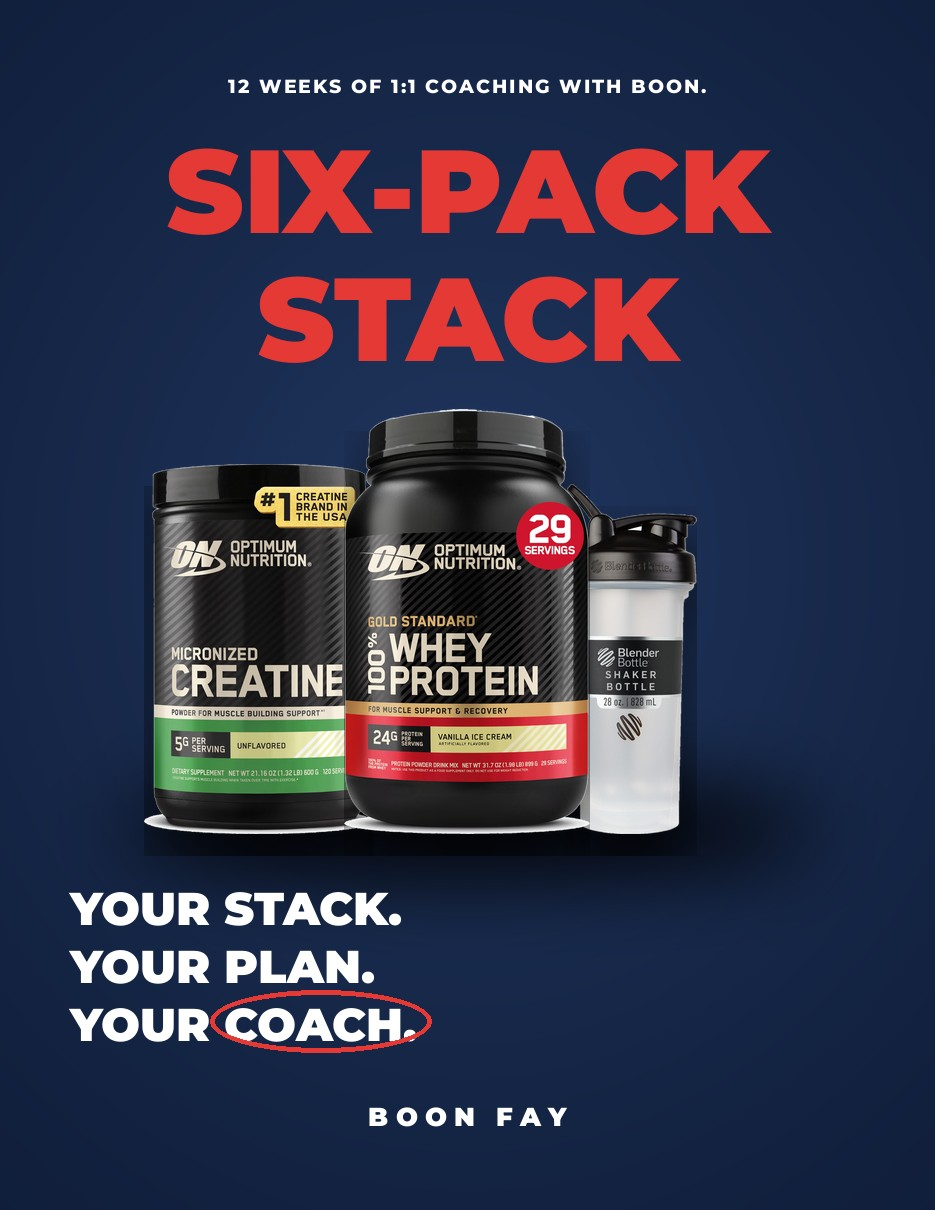
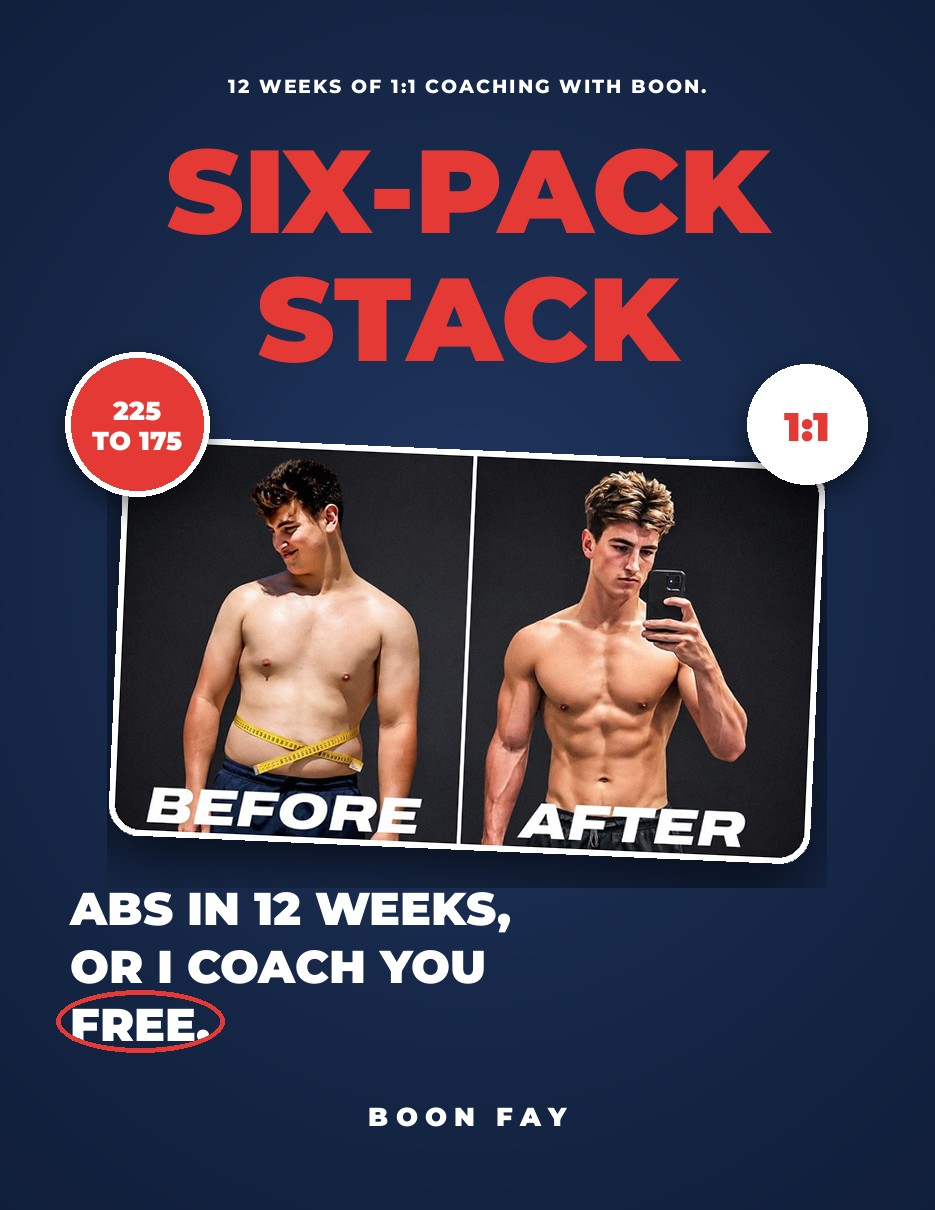
New covers: The Free Stack, coaching (real before/after), Stack Score; Stack Score added as a free card and linked from Stack Check
Claude-Session: https://claude.ai/code/session_01Bf86E4ucw6eJutAMhaLVMs

Changed region(s): [[0.062, 0.2752, 0.9305, 0.8868]]

diff --git a/app/welcome.tsx b/app/welcome.tsx
@@ -5,19 +5,21 @@ import { SafeAreaView } from 'react-native-safe-area-context';
 import { LinearGradient } from 'expo-linear-gradient';
 import { C, F } from '../src/lib/theme';
 import type { Want } from '../src/lib/lead';
-import { BTL_URL, COACHING_URL } from '../src/lib/access';
+import { BTL_URL, COACHING_URL, STACK_SCORE_URL } from '../src/lib/access';
 import Backdrop from '../src/components/Backdrop';
 import { twoTone } from '../src/components/TwoTone';
 
-const PLAN = require('../assets/img/tile_plan.jpg');
+const PLAN = require('../assets/img/cover_free.jpg');
+const SCORE = require('../assets/img/cover_score.jpg');
 const APP = require('../assets/img/cover_program.jpg');
 const BTL = require('../assets/img/btl_cover.jpg');
 const COACH = require('../assets/img/cover_coaching.jpg');
 const LOGO = require('../assets/logo-b.png');
 
 
-const PATHS: { want: Want; img: ImageSourcePropType; tag: string; price: string; title: string; line: string; contain?: boolean }[] = [
+const PATHS: { want: Want | 'score'; img: ImageSourcePropType; tag: string; price: string; title: string; line: string; contain?: boolean }[] = [
   { want: 'plan', img: PLAN, tag: 'Start here', price: 'Free', title: 'The Free Stack', line: 'Your first 2 weeks free: your calories, your meals and your training, built from a 2-minute quiz.' },
+  { want: 'score', img: SCORE, tag: 'Free audit', price: 'Free', title: 'Stack Score', line: '60 seconds: what to cut, keep and swap in your stack, and what it\'s costing you.' },
   { want: 'btl', img: BTL, tag: 'The guide', price: '$39.99', title: 'Beyond the Label', line: '47 supplements and gadgets investigated: what actually works, and what\'s just marketing.' },
   { want: 'sub', img: APP, tag: 'Best value', price: '$19.99/mo', title: 'The Full Stack', line: 'All 12 weeks: everything you need to finish on your own. Or $99 a year ($1.90 a week).' },
   { want: 'coaching', img: COACH, tag: '1:1 with Boon', price: 'By application', title: 'Six-Pack Stack Coaching', line: 'I audit your stack, build your plan and check in with you every Sunday for 12 weeks.' },
@@ -47,7 +49,7 @@ export default function Welcome() {
         {PATHS.map((p, i) => (
           <Animated.View key={p.want} style={{ opacity: fade[i], transform: [{ translateY: fade[i].interpolate({ inputRange: [0, 1], outputRange: [16, 0] }) }] }}>
             <Pressable accessibilityRole="button" accessibilityLabel={`${p.title}, ${p.price}`}
-              onPress={() => (p.want === 'btl' ? Linking.openURL(BTL_URL) : p.want === 'coaching' ? Linking.openURL(COACHING_URL) : router.push({ pathname: '/lead', params: { want: p.want } }))}
+              onPress={() => (p.want === 'btl' ? Linking.openURL(BTL_URL) : p.want === 'coaching' ? Linking.openURL(COACHING_URL) : p.want === 'score' ? Linking.openURL(STACK_SCORE_URL) : router.push({ pathname: '/lead', params: { want: p.want } }))}
               style={({ pressed }) => [st.card, p.want === 'sub' && st.cardSub, { transform: [{ scale: pressed ? 0.98 : 1 }] }]}>
               <View style={st.thumb}>
                 <Image source={p.img} style={{ width: 100, height: 126 }} resizeMode="cover" accessibilityIgnoresInvertColors />

diff --git a/app/stack-check.tsx b/app/stack-check.tsx
@@ -1,10 +1,11 @@
 import React, { useMemo, useState } from 'react';
-import { FlatList, Pressable, StyleSheet, Text, TextInput, View } from 'react-native';
+import { Linking, FlatList, Pressable, StyleSheet, Text, TextInput, View } from 'react-native';
 import { SafeAreaView } from 'react-native-safe-area-context';
 import { useRouter } from 'expo-router';
 import { C, F } from '../src/lib/theme';
 import { BackIcon, SearchIcon } from '../src/components/icons';
 import AskBoonCard from '../src/components/AskBoonCard';
+import { STACK_SCORE_URL } from '../src/lib/access';
 import Poster from '../src/components/Poster';
 import { imageFor, KIND, search, Verdict, VERDICTS } from '../src/lib/stackcheck';
 import Backdrop from '../src/components/Backdrop';
@@ -37,6 +38,13 @@ export default function StackCheck() {
             <Text style={st.k}>Stack Check</Text>
             <Text style={st.h}>{twoTone('Before you buy it,| check it.')}</Text>
             <Text style={st.body}>{VERDICTS.length} products I investigated for Beyond the Label. Type a brand or what it claims to do.</Text>
+            <Pressable accessibilityRole="link" onPress={() => Linking.openURL(STACK_SCORE_URL)} style={st.score}>
+              <View style={{ flex: 1, gap: 2 }}>
+                <Text style={st.scoreK}>Free · 60 seconds</Text>
+                <Text style={st.scoreT}>Score your whole stack: what to cut, keep and swap</Text>
+              </View>
+              <Text style={st.scoreChev}>›</Text>
+            </Pressable>
             <View style={st.search}>
               <SearchIcon color={C.white} />
               <TextInput accessibilityLabel="Search supplements" value={q} onChangeText={setQ} placeholder="AG1, C4, fat burner, creatine…"
@@ -81,6 +89,10 @@ export default function StackCheck() {
 }
 
 const st = StyleSheet.create({
+  score: { flexDirection: 'row', alignItems: 'center', gap: 10, borderWidth: 1.5, borderColor: C.green, borderRadius: 16, padding: 14, backgroundColor: 'rgba(63,191,127,0.08)' },
+  scoreK: { fontFamily: F.xbold, fontSize: 11, letterSpacing: 1.4, textTransform: 'uppercase', color: C.green },
+  scoreT: { fontFamily: F.black, fontSize: 15, lineHeight: 20, color: C.white },
+  scoreChev: { fontFamily: F.bold, fontSize: 28, color: C.white, marginTop: -4 },
   k: { fontFamily: F.xbold, fontSize: 12, letterSpacing: 1.6, textTransform: 'uppercase', color: C.red2 },
   h: { fontFamily: F.black, fontSize: 30, lineHeight: 34, color: C.white, textTransform: 'uppercase', letterSpacing: -0.5 },
   body: { fontFamily: F.semi, fontSize: 15, lineHeight: 22, color: C.white },

diff --git a/src/lib/access.ts b/src/lib/access.ts
@@ -11,6 +11,8 @@ export const isLocked = (p: Profile | null | undefined, week: number) => isFree(
 
 export const TERMS_URL = 'https://six-pack-stack.vercel.app/terms';
 export const PRIVACY_URL = 'https://six-pack-stack.vercel.app/privacy';
+/** The free 60-second Stack Score (website lead magnet: Kit report email, then Nurture). */
+export const STACK_SCORE_URL = 'https://six-pack-stack.vercel.app/stack-score?src=app';
 export const BTL_URL = 'https://boon-fay.kit.com/a9cb0690c3';
 /** Six-Pack Stack 1:1 coaching landing page (its Apply button goes to the same application form). */
 export const COACHING_URL = 'https://six-pack-stack.vercel.app/?src=app';

diff --git a/tools/covers3.py b/tools/covers3.py
@@ -1,0 +1,77 @@
+import sys
+sys.argv=['x']
+exec(open('covers2.py').read().split("cover('12 WEEKS")[0])
+from PIL import Image, ImageDraw, ImageFont, ImageFilter
+GREEN=(63,191,127); NAVY=(13,27,51)
+
+def phone2(path,pw):
+    s=Image.open(path).convert('RGB'); s=s.crop((0,0,s.width,int(s.width*2.05)))
+    ph=int(s.height*pw/s.width); s=s.resize((pw,ph),Image.LANCZOS)
+    bez=14; P=Image.new('RGBA',(pw+2*bez,ph+2*bez),(0,0,0,0)); d=ImageDraw.Draw(P)
+    d.rounded_rectangle((0,0,P.width-1,P.height-1),radius=46,fill=(10,10,14,255),outline=(80,90,110,255),width=3)
+    m=Image.new('L',(pw,ph),0); ImageDraw.Draw(m).rounded_rectangle((0,0,pw-1,ph-1),radius=34,fill=255)
+    P.paste(s,(bez,bez),m); d.rounded_rectangle((P.width//2-38,bez+7,P.width//2+38,bez+26),radius=10,fill=(0,0,0,255))
+    return P
+
+def fade_bottom(im, start=860, span=170):
+    fade=Image.new('RGBA',(W,H),(0,0,0,0)); fd=ImageDraw.Draw(fade)
+    for i in range(span):
+        yy=start-span+i; fd.line([(0,yy),(W,yy)],fill=(18,32,62,int(255*(i/span)**1.3)))
+    fd.rectangle((0,start,W,H),fill=(18,32,62,255)); im.alpha_composite(fade)
+
+def badge(im, text, center, r=78, fill=GREEN, color=NAVY, size=30):
+    d=ImageDraw.Draw(im); x,y=center
+    sh=Image.new('RGBA',(W,H),(0,0,0,0)); ImageDraw.Draw(sh).ellipse((x-r,y-r+10,x+r,y+r+10),fill=(0,0,0,130)); sh=sh.filter(ImageFilter.GaussianBlur(14)); im.alpha_composite(sh)
+    d.ellipse((x-r,y-r,x+r,y+r),fill=fill+(255,),outline=(255,255,255,255),width=6)
+    f=ImageFont.truetype(F9,size); lines=text.split('\n'); lh=size+4; y0=y-lh*len(lines)/2
+    for i,ln in enumerate(lines):
+        w=d.textlength(ln,font=f); d.text((x-w/2,y0+i*lh),ln,font=f,fill=color)
+
+def free_visual(im,y):
+    a=phone2('/tmp/cv/today.png',215).rotate(9,expand=True,resample=Image.BICUBIC)
+    c=phone2('/tmp/cv/plan.png',215).rotate(-9,expand=True,resample=Image.BICUBIC)
+    b=phone2('/tmp/cv/ready.png',245)
+    shadowed(im,c,(W//2+40,y+40)); shadowed(im,a,(W//2-40-a.width,y+40)); shadowed(im,b,(W//2-b.width//2,y))
+    fade_bottom(im)
+    badge(im,'2 WEEKS\nFREE',(W//2+190,y+70),r=82,size=29)
+
+def coach_visual(im,y):
+    ph=Image.open('/home/claude/sps-app/assets/hero/boon_jacked.jpg').convert('RGB')
+    cw=690; chh=int(ph.height*cw/ph.width); ph=ph.resize((cw,chh),Image.LANCZOS)
+    card=Image.new('RGBA',(cw+12,chh+12),(0,0,0,0)); d=ImageDraw.Draw(card)
+    d.rounded_rectangle((0,0,card.width-1,card.height-1),radius=30,fill=(255,255,255,255))
+    m=Image.new('L',(cw,chh),0); ImageDraw.Draw(m).rounded_rectangle((0,0,cw-1,chh-1),radius=25,fill=255)
+    card.paste(ph,(6,6),m)
+    card=card.rotate(-2.5,expand=True,resample=Image.BICUBIC)
+    shadowed(im,card,(W//2-card.width//2,y+40),blur=26,alpha=170)
+    badge(im,'225\nTO 175',(W//2-330,y+30),r=72,fill=(229,57,53),color=(255,255,255),size=26)
+    badge(im,'1:1',(W//2+340,y+30),r=60,fill=(255,255,255),color=(229,57,53),size=40)
+
+def label_visual(im,y):
+    lw,lh=600,462; L=Image.new('RGBA',(lw,lh),(255,255,255,255)); d=ImageDraw.Draw(L)
+    ink=(17,17,17); f9=lambda s:ImageFont.truetype(F9,s); f8=lambda s:ImageFont.truetype(F8,s); f6=ImageFont.truetype('/home/claude/fonts/Montserrat-600.ttf',20)
+    d.rectangle((0,0,lw-1,lh-1),outline=ink,width=4)
+    d.text((24,16),'Stack Score Facts',font=f9(40),fill=ink); ex='EXAMPLE'; d.text((lw-24-d.textlength(ex,font=f8(15)),30),ex,font=f8(15),fill=(110,110,110))
+    d.rectangle((24,70,lw-24,82),fill=ink)
+    d.text((24,96),'YOUR STACK SCORE',font=f8(18),fill=ink); d.text((24,120),'"Leaking money"',font=f8(26),fill=ink)
+    sc='38'; w=d.textlength(sc,font=f9(84)); d.text((lw-24-w-62,82),sc,font=f9(84),fill=(229,57,53)); d.text((lw-24-60,128),'/100',font=f8(24),fill=ink)
+    d.rectangle((24,182,lw-24,188),fill=ink)
+    rows=[('Fat burner','CUT',(229,57,53)),('Pre-workout','SWAP',(242,178,52)),('Whey protein','KEEP',GREEN),('Creatine','ADD',GREEN)]
+    yy=200
+    for name,v,col in rows:
+        d.text((24,yy+8),name,font=f8(25),fill=ink)
+        pw=d.textlength(v,font=f9(20))+28; d.rounded_rectangle((lw-24-pw,yy+6,lw-24,yy+42),radius=18,fill=col); d.text((lw-24-pw+14,yy+12),v,font=f9(20),fill=(255,255,255) if v in('CUT','KEEP','ADD') else ink)
+        yy+=44; d.line((24,yy,lw-24,yy),fill=ink,width=2)
+    d.rectangle((24,yy+4,lw-24,yy+12),fill=ink)
+    d.text((24,yy+24),'Estimated yearly waste',font=f8(25),fill=ink); w=d.textlength('$540',font=f9(30)); d.text((lw-24-w,yy+20),'$540',font=f9(30),fill=ink)
+    L=L.resize((int(lw*0.88),int(lh*0.88)),Image.LANCZOS).rotate(3,expand=True,resample=Image.BICUBIC)
+    shadowed(im,L,(W//2-L.width//2,y+10),blur=26,alpha=170)
+    badge(im,'FREE',(W-215,975),r=80,size=36)
+
+cover('YOUR FIRST 2 WEEKS, FREE.',['THE FREE','STACK'],free_visual,['BUILT FROM','A 2-MINUTE','QUIZ.'],'QUIZ','/home/claude/sps-app/assets/img/cover_free.jpg')
+cover('12 WEEKS OF 1:1 COACHING WITH BOON.',['SIX-PACK','STACK'],coach_visual,['ABS IN 12 WEEKS,','OR I COACH YOU','FREE.'],'FREE','/home/claude/sps-app/assets/img/cover_coaching.jpg')
+cover('THE FREE 60-SECOND STACK AUDIT.',['STACK','SCORE'],label_visual,['CUT.','KEEP.','SWAP.'],'SWAP','/home/claude/sps-app/assets/img/cover_score.jpg')
+ims=[Image.open('/home/claude/sps-app/assets/img/'+f).resize((W//2,H//2)) for f in ['cover_free.jpg','btl_cover.jpg','cover_program.jpg','cover_coaching.jpg','cover_score.jpg']]
+R=Image.new('RGB',(5*(W//2)+40,H//2),'white')
+for i,a in enumerate(ims): R.paste(a,(i*(W//2+10),0))
+R.save('/tmp/cv/covers.png')

diff --git a/tools/covers2.py b/tools/covers2.py
@@ -1,0 +1,83 @@
+from PIL import Image, ImageDraw, ImageFont, ImageFilter
+import numpy as np
+W,H=935,1210
+F9='/home/claude/fonts/Montserrat-900.ttf'; F8='/home/claude/fonts/Montserrat-800.ttf'
+RED=(229,57,53); WHITE=(255,255,255)
+def bg():
+    y,x=np.mgrid[0:H,0:W].astype(float)
+    d=np.sqrt((x-W/2)**2+((y-560)*0.9)**2)/820
+    a=np.clip(1-d,0,1)
+    base=np.array((16,30,58)); hi=np.array((34,56,98))
+    img=base+(hi-base)*a[...,None]**1.4
+    return Image.fromarray(img.astype('uint8')).convert('RGBA')
+def ctext(d,y,text,font,fill,spacing=0):
+    if spacing:
+        total=sum(d.textlength(c,font=font) for c in text)+spacing*(len(text)-1); x=(W-total)/2
+        for c in text: d.text((x,y),c,font=font,fill=fill); x+=d.textlength(c,font=font)+spacing
+    else:
+        w=d.textlength(text,font=font); d.text(((W-w)/2,y),text,font=font,fill=fill)
+def shadowed(im,obj,pos,blur=22,alpha=150,off=(0,22)):
+    sh=Image.new('RGBA',obj.size,(0,0,0,0)); sh.paste((0,0,0,alpha),(0,0),obj.split()[3])
+    sh=sh.filter(ImageFilter.GaussianBlur(blur)); im.alpha_composite(sh,(pos[0]+off[0],pos[1]+off[1])); im.alpha_composite(obj,pos)
+def tagline(d,lines,circle_word,y0,size=46):
+    f=ImageFont.truetype(F9,size); x0=70; y=y0
+    for ln in lines:
+        x=x0
+        for wi,word in enumerate(ln.split(' ')):
+            w=d.textlength(word,font=f)
+            d.text((x,y),word,font=f,fill=WHITE)
+            if word.strip('.,')==circle_word:
+                d.ellipse((x-14,y-6,x+w+14,y+size+10),outline=RED,width=5)
+            x+=w+d.textlength(' ',font=f)
+        y+=size+12
+def phone(path,pw=250):
+    s=Image.open(path).convert('RGB'); s=s.crop((0,0,s.width,int(s.width*2.05)))
+    ph=int(s.height*pw/s.width); s=s.resize((pw,ph),Image.LANCZOS)
+    bez=14; P=Image.new('RGBA',(pw+2*bez,ph+2*bez),(0,0,0,0)); d=ImageDraw.Draw(P)
+    d.rounded_rectangle((0,0,P.width-1,P.height-1),radius=46,fill=(10,10,14,255),outline=(80,90,110,255),width=3)
+    m=Image.new('L',(pw,ph),0); ImageDraw.Draw(m).rounded_rectangle((0,0,pw-1,ph-1),radius=34,fill=255)
+    P.paste(s,(bez,bez),m); d.rounded_rectangle((P.width//2-38,bez+7,P.width//2+38,bez+26),radius=10,fill=(0,0,0,255))
+    return P
+
+def cover(top,title,visual,tag_lines,circle,out):
+    im=bg(); d=ImageDraw.Draw(im)
+    ctext(d,74,top,ImageFont.truetype(F8,19),WHITE,spacing=2)
+    ft=ImageFont.truetype(F9,118)
+    y=118
+    for ln in title: ctext(d,y,ln,ft,RED); y+=128
+    visual(im,y+20)
+    d=ImageDraw.Draw(im)
+    tagline(d,tag_lines,circle,880)
+    ctext(d,1100,'BOON FAY',ImageFont.truetype(F9,26),WHITE,spacing=7)
+    im.convert('RGB').save(out,quality=90)
+    return im
+
+def stack_visual(im,y):
+    items=[('/home/claude/btl2/photos/cut/creatine.png',370),('/home/claude/btl2/photos/cut/on.png',425),('/home/claude/sps-app/assets/img/shaker.png',350)]
+    objs=[]
+    for p,h in items:
+        o=Image.open(p).convert('RGBA'); o=o.crop(o.getbbox()); o=o.resize((int(o.width*h/o.height),h),Image.LANCZOS); objs.append(o)
+    base=y+440
+    gl=Image.new('L',(W,H),0); ImageDraw.Draw(gl).ellipse((120,base-50,W-120,base+40),fill=255); gl=gl.filter(ImageFilter.GaussianBlur(40))
+    im.paste((0,0,0,120),(0,0),gl)
+    xs=[W//2-objs[1].width//2-objs[0].width+30, W//2-objs[1].width//2, W//2+objs[1].width//2-25]
+    order=[0,2,1]
+    for i in order:
+        o=objs[i]; shadowed(im,o,(xs[i],base-o.height))
+def app_visual(im,y):
+    a=phone('ts_sc.png',215).rotate(9,expand=True,resample=Image.BICUBIC)
+    b=phone('ts_train.png',245)
+    c=phone('w5.png' if False else 'ts_verdict.png',215).rotate(-9,expand=True,resample=Image.BICUBIC)
+    base=y
+    shadowed(im,a,(W//2+40,base+40)); shadowed(im,c,(W//2-40-c.width,base+40)); shadowed(im,b,(W//2-b.width//2,base))
+    # fade phones into background toward bottom
+    fade=Image.new('RGBA',(W,H),(0,0,0,0)); fd=ImageDraw.Draw(fade)
+    for i in range(170):
+        yy=860-170+i; fd.line([(0,yy),(W,yy)],fill=(18,32,62,int(255*(i/170)**1.3)))
+    fd.rectangle((0,860,W,H),fill=(18,32,62,255))
+    im.alpha_composite(fade)
+
+cover('12 WEEKS OF 1:1 COACHING WITH BOON.',['SIX-PACK','STACK'],stack_visual,['YOUR STACK.','YOUR PLAN.','YOUR COACH.'],'COACH','/home/claude/sps-app/assets/img/cover_coaching.jpg')
+cover('ALL 12 WEEKS, IN ONE APP.',['THE FULL','STACK'],app_visual,['STRIP.','STACK.','SIX-PACK.'],'SIX-PACK','/home/claude/sps-app/assets/img/cover_program.jpg')
+a=Image.open('/home/claude/sps-app/assets/img/cover_coaching.jpg');b=Image.open('/home/claude/sps-app/assets/img/cover_program.jpg');c=Image.open('/home/claude/sps-app/assets/img/btl_cover.jpg').resize((W,H))
+R=Image.new('RGB',(3*W+40,H),'white');R.paste(c,(0,0));R.paste(b,(W+20,0));R.paste(a,(2*W+40,0));R.resize((R.width//3,H//3)).save('covers3.png')
